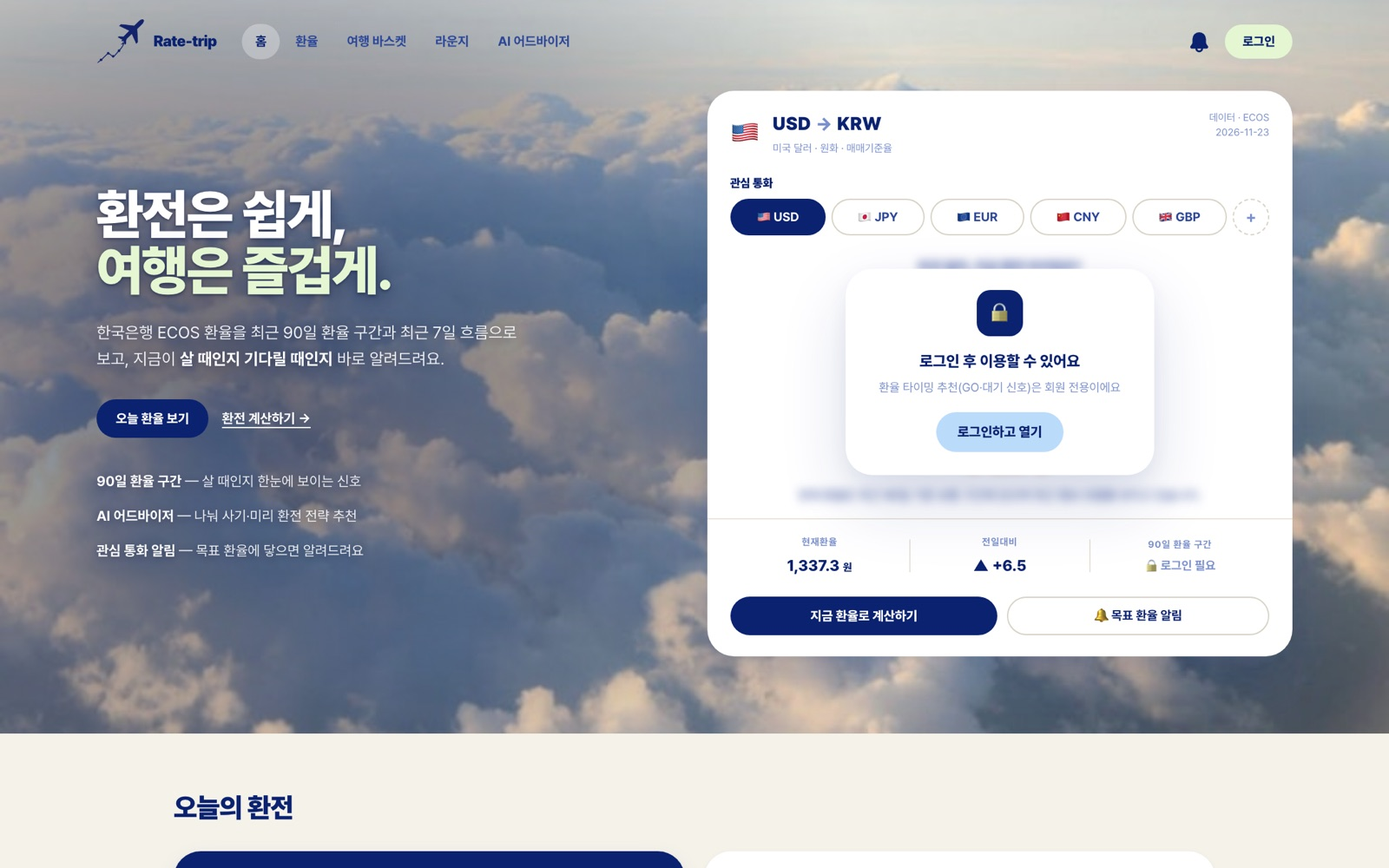
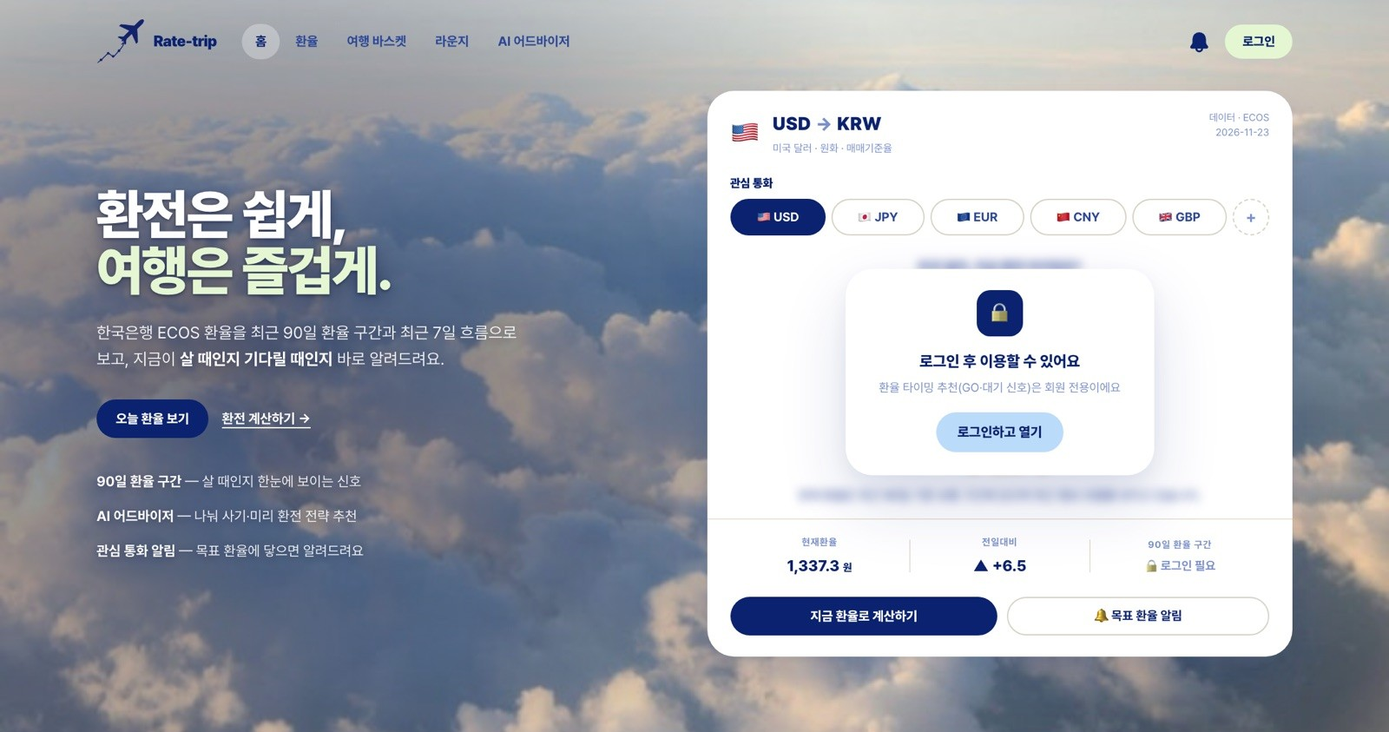
포폴 3차 수정: 트러블슈팅 시각화, 스크롤·레이아웃 개선
- 트러블슈팅 27건에 전/후 흐름도·막대·비율·구간 다이어그램 추가, 문제/원인/해결/결과 2×2 배치
- 프로젝트 창이 열려 있을 때 배경 페이지 스크롤 잠금
- About 사진 축소, 기술 아이콘 툴팁이 사진에 가려지지 않게 수정
- Rate-trip 첫 화면 이미지를 히어로 영역만 남도록 자르기

diff --git a/index.html b/index.html
@@ -16,7 +16,10 @@
     --max:1320px; --pad:clamp(20px,4vw,56px);
   }
   *{box-sizing:border-box;margin:0;padding:0}
-  html{scroll-behavior:smooth;scroll-padding-top:64px}
+  html{scroll-behavior:smooth;scroll-padding-top:64px;scrollbar-gutter:stable}
+  /* 프로젝트 창이 열려 있으면 뒤 배경은 스크롤 안 됨 */
+  html.modal-open,html.modal-open body{overflow:hidden}
+  dialog.finder,.fmain,.fside{overscroll-behavior:contain}
   body{
     font-family:"Poppins","Pretendard Variable",Pretendard,-apple-system,BlinkMacSystemFont,"Apple SD Gothic Neo",sans-serif;
     background:#fff;color:var(--ink);font-size:15px;line-height:1.65;letter-spacing:-0.01em;
@@ -64,7 +67,7 @@
   /* ---------- about ---------- */
   .about{display:grid;grid-template-columns:minmax(0,520px) minmax(0,1fr);gap:clamp(40px,6vw,96px);padding:clamp(48px,7vw,96px) 0 40px;align-items:start}
   .photo-col{display:flex;flex-direction:column;align-items:center;gap:28px;position:sticky;top:90px}
-  .photo{position:relative;width:min(400px,80vw);aspect-ratio:590/900}
+  .photo{position:relative;width:min(340px,70vw);aspect-ratio:590/900}
   .photo::before{content:"";position:absolute;left:8%;right:8%;bottom:2%;top:24%;background:radial-gradient(closest-side,#E8F2FF,transparent);z-index:0}
   .photo img{position:relative;z-index:1;width:100%;height:100%;object-fit:contain;filter:drop-shadow(0 30px 40px rgba(20,40,80,.16))}
   .sticker{position:absolute;z-index:2;animation:bob 4.5s ease-in-out infinite}
@@ -73,7 +76,7 @@
   .sticker.s3{left:2%;top:6%;width:40px;animation:spin 10s linear infinite}
   @keyframes bob{0%,100%{transform:translateY(0)}50%{transform:translateY(-10px)}}
   @keyframes spin{to{transform:rotate(360deg)}}
-  .dock{display:flex;gap:7px;padding:10px 14px;background:#EEF0F3;border-radius:24px;align-items:flex-end;flex-wrap:wrap;justify-content:center;max-width:100%}
+  .dock{position:relative;z-index:3;display:flex;gap:7px;padding:10px 14px;background:#EEF0F3;border-radius:24px;align-items:flex-end;flex-wrap:wrap;justify-content:center;max-width:100%}
   .dock-item{position:relative;width:40px;height:40px;border-radius:11px;display:flex;align-items:center;justify-content:center;font-size:12.5px;font-weight:600;letter-spacing:-0.02em;box-shadow:0 6px 14px -8px rgba(0,0,0,.45);transition:transform .2s cubic-bezier(.2,.7,.2,1);cursor:default}
   .dock-item:hover{transform:translateY(-10px) scale(1.22)}
   .dock-item .tip{position:absolute;bottom:52px;left:50%;transform:translateX(-50%);white-space:nowrap;background:var(--ink);color:#fff;font-size:11px;font-weight:500;padding:4px 8px;border-radius:6px;opacity:0;pointer-events:none;transition:opacity .15s}
@@ -182,11 +185,60 @@
   .ts + .ts{margin-top:12px}
   .ts-t{font-size:15px;font-weight:600;letter-spacing:-0.02em;margin-bottom:12px}
   .ts-t span{font-size:11px;color:var(--ink-3);font-weight:500;margin-right:10px}
-  .ts dl{display:grid;gap:8px}
-  .ts dl > div{display:grid;grid-template-columns:44px 1fr;gap:12px}
-  .ts dt{font-size:12.5px;color:var(--ink-3);padding-top:2px}
-  .ts dd{font-size:14.5px;color:#2E2E2E;line-height:1.65}
+  .ts dl{display:grid;grid-template-columns:1fr 1fr;gap:14px 28px}
+  .ts dt{font-size:12.5px;font-weight:600;color:var(--ink-2);margin-bottom:3px}
+  .ts dl > div:nth-child(n+3) dt{color:var(--blue)}
+  .ts dd{font-size:14px;color:#2E2E2E;line-height:1.65}
   .ts dl > div:last-child dd{color:var(--ink);font-weight:500}
+
+  /* 트러블슈팅 다이어그램 */
+  .tv{margin-top:18px;background:var(--tile);border-radius:10px;padding:clamp(10px,2vw,22px)}
+  .tv-in{background:#fff;border-radius:6px;padding:18px clamp(14px,2.4vw,26px) 20px}
+  .tv-h{font-size:15px;font-weight:700;letter-spacing:-0.02em;line-height:1.45}
+  .tv-lg{display:flex;flex-wrap:wrap;gap:4px 16px;margin:6px 0 2px;font-size:12px;color:var(--ink-2)}
+  .tv-lg i{display:inline-block;width:11px;height:11px;border-radius:2px;margin-right:5px;vertical-align:-1px}
+  .tv-lg .k-bad{background:#FDECEC;border:1.5px solid #E5484D}
+  .tv-lg .k-hi{background:var(--blue)}
+  .tv-lg .k-pre{background:#C9CED6}
+  .tv-blk{padding:16px 0 0}
+  .tv-blk + .tv-blk{margin-top:16px;border-top:1px solid var(--line)}
+  .tv-cap{font-size:13.5px;font-weight:700;margin-bottom:10px}
+  .tv-flow{display:flex;align-items:center;flex-wrap:wrap;gap:8px 6px}
+  .tv-step{background:#fff;border:1px solid #CDD3DC;border-radius:6px;padding:7px 11px;font-size:12.5px;line-height:1.45;max-width:230px}
+  .tv-step.bad{background:#FDECEC;border:1.5px solid #E5484D;color:#A51D22;font-weight:600}
+  .tv-step.bad::before{content:"✕ ";font-weight:700}
+  .tv-step.hi{background:var(--blue);border-color:var(--blue);color:#fff;font-weight:600}
+  .tv-par{display:flex;flex-direction:column;gap:6px}
+  .tv-arr{color:#9AA3AF;font-size:13px}
+  .tv-note{margin-top:9px;font-size:12.5px;color:var(--ink-2)}
+  .tv-bars{display:grid;gap:14px}
+  .tv-bar-l{font-size:12.5px;font-weight:600;margin-bottom:5px}
+  .tv-bar{display:grid;grid-template-columns:42px 1fr;align-items:center;gap:8px;font-size:11.5px;color:var(--ink-3)}
+  .tv-bar + .tv-bar{margin-top:4px}
+  .tv-bar b{display:block;height:20px;border-radius:4px;background:#C9CED6;position:relative;min-width:4px}
+  .tv-bar.aft b{background:var(--blue)}
+  .tv-bar em{position:absolute;left:calc(100% + 8px);top:50%;transform:translateY(-50%);white-space:nowrap;font-style:normal;font-size:12px;font-weight:700;color:var(--ink)}
+  .tv-bar.aft em{color:var(--blue)}
+  .tv-bar .w{padding-right:120px}
+  .tv-share{display:flex;height:34px;border-radius:6px;overflow:hidden;font-size:12px;font-weight:600}
+  .tv-share span{display:flex;align-items:center;justify-content:center;padding:0 8px;white-space:nowrap;overflow:hidden}
+  .tv-gauge{position:relative;margin:4px 0 30px}
+  .tv-gauge .track{display:flex;height:16px;border-radius:999px;overflow:hidden}
+  .tv-gauge .tick{position:absolute;top:22px;transform:translateX(-50%);font-size:11.5px;color:var(--ink-2);font-variant-numeric:tabular-nums}
+  .tv-zones{display:grid;grid-template-columns:repeat(auto-fit,minmax(150px,1fr));gap:8px}
+  .tv-zone{border-radius:6px;padding:8px 10px;font-size:12px;line-height:1.45;border:1px solid var(--line)}
+  .tv-zone b{display:block;font-size:12.5px;margin-bottom:2px}
+  .tv-kpi{display:flex;flex-wrap:wrap;gap:8px;margin-top:14px}
+  .tv-kpi span{font-size:12.5px;background:var(--blue-soft);color:#1D4FB0;border-radius:999px;padding:5px 12px}
+  .tv-kpi s{color:var(--ink-3)}
+  .tv-kpi strong{font-weight:700}
+  @media (max-width:640px){
+    .ts dl{grid-template-columns:1fr}
+    .tv-flow{flex-direction:column;align-items:stretch}
+    .tv-step{max-width:none}
+    .tv-arr{transform:rotate(90deg);align-self:center}
+    .tv-bar .w{padding-right:90px}
+  }
   .lnk{list-style:none;display:grid;gap:8px}
   .lnk a{display:inline-flex;gap:10px;font-size:15px;font-weight:500;border-bottom:1px solid var(--ink);padding-bottom:2px}
   .lnk a span{color:var(--ink-3);font-weight:400}
@@ -787,6 +839,187 @@ const PROJECTS = [
   }
 ];
 
+/* =========================================================
+   트러블슈팅 다이어그램 — 프로젝트 id별로 trouble 순서와 같게.
+   blocks 한 칸 = 그림 한 줄.
+     { cap, steps:[...], note }  흐름. '!' 로 시작 = 문제 지점(빨강), '+' = 바꾼 부분(파랑), 배열 = 나란히
+     { cap, bars:[{ l, v:[전,후], t:[표시 글자], n:[이름] }] }  막대 비교
+     { cap, share:[[글자, %, 배경, 글자색]] }  비율 막대
+     { cap, gauge:[[시작, 끝, 이름, 설명, 색]] }  0~100 구간
+     kpi:[[항목, 전, 후]]  어느 칸에나 붙는 수치 요약
+   ========================================================= */
+const TS_VIZ = {
+  dongle:[
+    { title:'안 보이는 곳은 건너뛰고 먼 곳은 단순하게 그려, 프레임 부담을 절반 이하로',
+      blocks:[
+        { cap:'전: 섬 전체를 매 프레임 같은 정밀도로', steps:['큰 합본 메시 하나','!카메라 밖 나무·꽃·강둑까지 그림','!먼 식물도 가까운 것과 같은 정밀도'] },
+        { cap:'후: 보이는 구역만, 거리에 맞는 정밀도로', steps:['+32칸 구역으로 나눠 카메라 컬링','+먼 구역 나무·덤불·꽃은 LOD','+해 그림자는 2프레임에 한 번','인스턴싱용 재질 분리'] },
+        { cap:'측정 결과 (Intel Iris Xe)', bars:[
+          { l:'시작 위치 · GPU 시간', v:[25,12], t:['25ms','12ms'] },
+          { l:'시작 위치 · 프레임당 삼각형', v:[599,250], t:['599만 개','250만 개'] },
+          { l:'타이틀 화면 · GPU 시간', v:[47,15], t:['47ms','15ms'] },
+          { l:'타이틀 화면 · 프레임당 삼각형', v:[1686,325], t:['1,686만 개','325만 개'] },
+        ]},
+      ]},
+    { title:'첫 등장 프레임에 몰리던 GPU 작업을 로딩 화면으로 옮겨 순간 멈춤 제거',
+      blocks:[
+        { cap:'전: compileAsync로 화면 셰이더만 미리 준비', steps:['로딩 화면 · 화면 셰이더만 컴파일','게임 시작','!새 장소 첫 등장 · 지오메트리 업로드 + 그림자 셰이더 컴파일'], note:'처음 보는 장소에서 391ms, 511ms씩 화면이 멈춤' },
+        { cap:'후: 로딩 중에 섬 전체를 한 번 미리 그림', steps:['+로딩 화면 · 섬 전체를 1×1 크기로 그림자와 함께 그림','게임 시작','새 장소 첫 등장 · 이미 GPU에 있음'],
+          kpi:[['순간이동 11곳 · 게임 중 업로드·컴파일','발생','0회']] },
+      ]},
+    { title:'고정 높이 하나 대신, 가장 가까운 좌석의 실제 높이로 앉히기',
+      blocks:[
+        { cap:'전', steps:['다른 주민의 앉은 자세 수신','소파·의자 기준 높이 하나로 그림','!방석 위에서는 공중에 떠 보임'] },
+        { cap:'후', steps:['다른 주민의 앉은 자세 수신','+전달받은 위치에서 가장 가까운 좌석 찾기','+그 좌석의 실제 높이로 그림'], note:'좌석을 알 수 없을 때만 기본 높이 사용 · 높이 0.15인 방석에서도 정확히 앉음' },
+      ]},
+  ],
+  malo:[
+    { title:'같은 종목 요청을 줄 세우고, 확정된 과거 봉만 캐시에 남겨 500 에러 제거',
+      blocks:[
+        { cap:'전: 동시에 들어온 두 요청이 같은 캐시 행을 지움', steps:['같은 종목 요청 A · B 동시 도착','!장중 오늘 봉 종가 변화 → "수정주가 소급"으로 오인','A · B가 같은 캐시 행 삭제','!뒤쪽 삭제 0행 → 500'] },
+        { cap:'후: 종목별 락 안에서 한 요청씩', steps:['+종목별 락으로 A → B 줄 세움','+확정된 과거 봉만 캐시에 대조·저장','오늘 봉은 응답 끝에만 붙임','B는 A가 채운 캐시 사용'],
+          kpi:[['봉마다 조회','200회','구간 조회 1회'],['캐시 삭제','일괄 삭제 쿼리']] },
+      ]},
+    { title:'전략 등록 시각을 기준으로, 등록 뒤 마감된 거래일만 평가',
+      blocks:[
+        { cap:'전: 등록 시점을 모른 채 지난 거래일을 평가', steps:['9/27(일, 추석 연휴) 전략 등록','앱 기동 · 따라잡기','!등록 전인 9/23 기준으로 평가','!밀린 날 확인 요청이 계속 반복'] },
+        { cap:'후: 등록 뒤 장이 마감된 거래일부터', steps:['+전략에 등록 시각 기록','+등록 뒤 마감된 거래일만 평가','그날 평가 기록이 있으면 다시 안 돌림','+밀린 날 확인 시 지난 거래일 모두 건너뜀'], note:'국내 15:40 이후 등록이면 그날도 제외' },
+      ]},
+    { title:'제출 중에는 프로필 행을 잠가 현재 닉네임으로만 기록',
+      blocks:[
+        { cap:'전: 결과 제출과 닉네임 변경이 서로를 기다리지 않음', steps:['결과 제출 시작','그 사이 닉네임 변경','!옛 이름 행이 순위표에 남음'] },
+        { cap:'후: 제출 트랜잭션 안에서 프로필 행 잠금', steps:['결과 제출 시작','+프로필 행 잠금','+닉네임 다시 읽기','현재 이름으로 기록'],
+          kpi:[['정규화 후 길이 초과 닉네임','500','400 거절'],['랭킹 서버 호출 타임아웃','연결 3초 · 응답 10초'],['요청 제한(429)','Retry-After로 "N분 뒤" 안내']] },
+      ]},
+  ],
+  qubi:[
+    { title:'함수 전체 대신 한 줄만 바꾸게 해, 출력이 함수 크기와 상관없이 짧아짐',
+      blocks:[
+        { cap:'전: AI가 함수 전체를 다시 씀', steps:['함수 전체 재작성 (render 1,607토큰)','!컨텍스트 2,048토큰 초과','!중간에 끊긴 코드를 그대로 적용'] },
+        { cap:'후: 바꿀 한 줄만 REPLACE / WITH', steps:['+한 줄 교체 요청','원본에 정확히 한 번 있을 때만 교체','+출력 한도 = 컨텍스트 − 입력 − 여유','+괄호·문자열·정규식 열림 검사','게임에 적용'] },
+        { cap:'출력 토큰', bars:[{ l:'render 함수 수정 1회', v:[1607,40], t:['1,607토큰','40토큰 안쪽'] }],
+          kpi:[['대상 함수 66개','전체 재작성','64개 한 줄 교체 · 2개 사전 안내'],['컨텍스트 초과 요청','발생','0건'],['끊긴 코드 6종','적용됨','모두 차단']] },
+      ]},
+    { title:'파일을 메모리에 올리지 않고 이름만 바꿔 대용량 모델 저장',
+      blocks:[
+        { cap:'전: 최종 이름으로 옮길 때 통째로 복사', steps:['7B 모델 약 4.7GB 다운로드 (수십 분)','!파일 전체를 ArrayBuffer로 읽음','!단일 ArrayBuffer 한계(약 4GB) 초과 → 실패','0바이트 임시 파일만 남음'] },
+        { cap:'후: 복사 없이 이동', steps:['약 4.7GB 다운로드','+move()로 이름만 변경','+미지원 환경은 Blob을 넘겨 스트리밍','+실패 시 임시 파일 삭제'] },
+      ]},
+    { title:'게임은 전용 CSP를 가진 샌드박스 페이지에서 따로 실행',
+      blocks:[
+        { cap:'전: 확장 페이지 안의 srcdoc iframe', steps:["확장 페이지 (CSP script-src 'self')",'srcdoc iframe이 CSP 상속','!게임 인라인 스크립트 차단'] },
+        { cap:'후: manifest에 샌드박스 페이지 선언', steps:['확장 페이지','+샌드박스 페이지 (전용 CSP)','+준비 신호 → postMessage로 게임 HTML 전달','게임 실행 · 확장 권한과 분리'] },
+      ]},
+  ],
+  lidar:[
+    { title:'바꿀 수 없는 금리·한도 대신, AI가 개입할 수 있는 인앱 단절로 타깃 변경',
+      blocks:[
+        { cap:'2026년 1분기 민원 구성 (총 25건)', share:[['여수신 · 금리·한도 불만 80%',80,'#C9CED6','#2E2E2E'],['그 외 20%',20,'#EEF0F3','#4D4D4D']],
+          note:'총 민원은 2024년 1분기 57건 → 2026년 1분기 25건 (56.1% 감소)' },
+        { cap:'타깃 재설정', steps:['!금리·한도 불만 · 기술로 바꿀 수 없음',['+공시상 3건뿐인 앱 오류 민원','+공시에 안 잡히는 조용한 이탈 (Silent Churn)'],'인앱 프로세스 단절을 타깃으로'] },
+      ]},
+    { title:'문장을 만들지 않고 판정만 하는 모델로 정보 왜곡 위험 차단',
+      blocks:[
+        { cap:'배제한 안: 생성형 LLM', steps:['고객 상황','LLM이 이율·조건 안내 문장 생성','!할루시네이션 → 불완전판매 리스크'] },
+        { cap:'선택한 안: 비생성형 판정 모델', steps:['정형 수치 + 클릭스트림 시퀀스','+LSTM · XGBoost가 판정만','분노 지수 0~100'], note:'정보 왜곡 위험을 없애고 연산 속도·전산 부담도 줄임' },
+      ]},
+    { title:'필요한 화면에서만 분석하고, 점수 구간에 따라 대응을 나눠 비용·인력 통제',
+      blocks:[
+        { cap:'언제 분석하나', steps:['!모든 화면 · 모든 고객 24시간 분석','+여수신 신청서 화면 진입 시에만 (On-Demand)'] },
+        { cap:'분노 지수 구간별 대응', gauge:[[0,80,'80점 이하','선제 조치 없음','#E3E7ED'],[80,85,'80점 초과','안내 팝업 · 세션 자동 저장','#8DB8F2'],[85,100,'85점 초과','상담원 콜백 배분','#1D6FE0']] },
+      ]},
+  ],
+  ratetrip:[
+    { title:'DB → 캐시 → 대체 API 순으로 받아, 외부 API가 멈춰도 화면 유지',
+      blocks:[
+        { cap:'전: 요청마다 ECOS 직접 호출', steps:['환율 요청','ECOS 직접 호출','!한도 초과 · 무응답','!화면 전체 "Failed to fetch"'] },
+        { cap:'후: 있는 데이터부터 쓰고, 실패하면 차례로 대체', steps:['환율 요청','+DB 저장값 먼저','없는 통화만 ECOS','+실패 시 직전 캐시 (stale)','+그다음 공용 환율 API'],
+          note:'응답 10분 캐시 · 14일 내내 값이 같은 통화는 다시 받음', kpi:[['인증 실패 · 한도 초과','같은 오류','502 · 503 분리']] },
+      ]},
+    { title:'영업일마다 자동 수집하고, 빈 DB는 기동 직후 채워 언제나 최근 환율 표시',
+      blocks:[
+        { cap:'전: 사람이 직접 수집, "오늘" 데이터만 조회', steps:['서버 새로 시작','!DB 비어 있음 · 홈·차트 텅 빔','!주말·공휴일엔 그날 환율 없음'] },
+        { cap:'후: 스케줄러가 수집, 최근 영업일로 조회', steps:['+서버 시작 5초 뒤 DB 비면 최근 영업일 자동 수집','+매 영업일 11:00 APScheduler 수집','수집 직후 목표 환율 알림 검사','주말엔 최근 영업일 환율 표시'],
+          note:'migrate 같은 관리 명령에서는 스케줄러가 뜨지 않게 막음 · loaddata와 runserver만으로 바로 사용' },
+      ]},
+    { title:'실제 환율 통계를 프롬프트에 넣고 역할을 좁혀, 근거 있는 답변으로',
+      blocks:[
+        { cap:'전', steps:['사용자 질문','질문만 모델에 전달','!근거 없는 "지금 사라"'] },
+        { cap:'후', steps:['사용자 질문 + 사용 목적','+백엔드가 최근 30일 현재·평균·최고·최저 계산','+역할: 여행 환전 판단 보조로 한정','답변 + 면책 고지 + 데이터 출처'] },
+      ]},
+  ],
+  hearstory:[
+    { title:'검색된 사료만 근거로 답하는 RAG 구조로 지어낸 역사 차단',
+      blocks:[
+        { cap:'위험: 생성형 AI만 쓸 때', steps:['관람객 질문','AI가 역사 인물을 연기','!사실이 아닌 내용을 그럴듯하게'] },
+        { cap:'설계: RAG', steps:['관람객 질문','+국가유산포털 공공데이터 벡터 검색 (ChromaDB)','+검색된 사료만 근거로 답변','답변 + 출처 · 신뢰도 표시'] },
+      ]},
+    { title:'안내판만 있으면 어느 유산이든 해설 콘텐츠로',
+      blocks:[
+        { cap:'현재', steps:['지방 소규모 유산','!해설 콘텐츠를 만들 여력 부족'], note:'전문 해설 인프라는 수도권 대형 박물관에 몰려 있음' },
+        { cap:'제안', steps:['현장 안내판','+OCR로 인식해 유산 식별','+공공데이터와 연결','해설 생성'] },
+      ]},
+    { title:'읽어야 하는 안내문을, 듣고 대화하는 짧은 해설로',
+      blocks:[
+        { cap:'국내 숏폼 이용률', bars:[{ l:'짧고 쉬운 설명에 익숙해진 관람객', v:[58.1,78.9], t:['58.1%','78.9%'], n:['2023','2025'] }] },
+        { cap:'전', steps:['한자어 · 전문 용어 많은 긴 안내판','!읽지 않고 사진 촬영 위주로 끝남'] },
+        { cap:'후', steps:['안내판 촬영','+AI가 핵심만 짧게 요약','+고른 캐릭터 해설사가 쉬운 말로 설명','선택지 버튼 · 자유 질문으로 이어 묻기'] },
+      ]},
+  ],
+  review:[
+    { title:'문맥을 읽는 KoBERT로 분류하고, LDA 토픽으로 "왜"를 설명',
+      blocks:[
+        { cap:'전: 단어 단위 키워드 매칭', steps:['리뷰 문장','단어 하나하나만 봄','!구어체 · 중의적 표현 오분류'] },
+        { cap:'후: 문맥 분류 + 토픽 근거', steps:['리뷰 문장',['+KoBERT · 양방향 문맥으로 긍정·부정 분류','+LDA · 청결·소음 같은 토픽 추출'],'토픽과 감성을 묶어 불만 항목 설명'] },
+      ]},
+    { title:'비율을 지켜 나누고 소수 클래스에 가중치를 줘 치우침 완화',
+      blocks:[
+        { cap:'전', steps:['부정 리뷰가 압도적인 데이터','그대로 학습','!소수 클래스(긍정)를 무시하는 쪽으로 학습'] },
+        { cap:'후', steps:['+Stratified Sampling · 학습/검증 클래스 비율 유지','+Weighted Cross-Entropy · 소수 클래스 가중치','학습'],
+          kpi:[['Accuracy','0.82'],['부정 리뷰 Recall','높게 유지']] },
+      ]},
+    { title:'리뷰 말투에 맞춘 형태소 분석기와 불용어 사전으로 노이즈 감소',
+      blocks:[
+        { cap:'전', steps:['"핵-" · "개-" · "ㅋㅋ"','일반 형태소 분석기 · 기본 불용어','!뉘앙스 손실 · 분석 노이즈'] },
+        { cap:'후', steps:['"핵-" · "개-" · "ㅋㅋ"','+KIWI (미등록어에 강함)','+강조 접두사·특수 토큰을 살린 커스텀 불용어 사전','"에어컨 소음" · "침구 상태" 같은 불만 항목'] },
+      ]},
+  ],
+  erpmes:[
+    { title:'DB 직접 연결 대신 인터페이스 테이블을 두어 시스템 간 독립성 확보',
+      blocks:[
+        { cap:'대안: DB 직접 연결', steps:['MES','ERP DB에 직접 연결','!한쪽 장애·업데이트가 바로 전파'], note:'단순하고 저렴하지만 ERP 데이터 오염 위험' },
+        { cap:'선택: 인터페이스 테이블', steps:['MES','+System Link (인터페이스 테이블)','+검증 후 전송','ERP'] },
+      ]},
+    { title:'부적합이 나오는 즉시 ERP로 보내 후속 공정을 바로 멈춤',
+      blocks:[
+        { cap:'대안: 배치 전송', steps:['부적합 발생','정해진 시점에 모아서 전송','!즉시 대응 불가'], note:'서버 부담은 적음' },
+        { cap:'선택: 실시간 전송', steps:['부적합 발생','+즉시 ERP 전송',['후속 공정 중단','자재 투입 차단']] },
+      ]},
+    { title:'현장에서 바로 스캔해, 실적이 생긴 시점에 정확한 값으로 입력',
+      blocks:[
+        { cap:'전', steps:['현장에서 메모','사무실 PC로 이동','!나중에 입력 → 지연 · 오입력'] },
+        { cap:'후', steps:['+바코드 PDA로 현장에서 스캔',['+LOT 정보 등록','+원자재 입출고 · 재고 위치 기록'],'LOT 추적 · 재고 위치 파악'] },
+      ]},
+  ],
+  yanolja:[
+    { title:'정적 HTML 대신 실제 브라우저로 스크롤하며, 서버 부담 없게 수집',
+      blocks:[
+        { cap:'전: HTML 요청', steps:['페이지 요청','!JavaScript 비동기 로딩 전 상태','!숙박시설 목록 비어 있음'] },
+        { cap:'후: Selenium 자동화', steps:['robots.txt · 이용약관 확인','+브라우저처럼 스크롤하며 수집','+요청 사이 지연 · 차단 시 멈추고 간격 늘려 재시도','약 200곳 · 필요한 4개 항목만','Excel 저장 → 분석은 재접속 없이'] },
+      ]},
+    { title:'표시용 문자열을 정규표현식으로 일괄 수치화',
+      blocks:[
+        { cap:'전', steps:['콤마 · 단위 · 별점 기호가 섞인 가격·평점','!바로 계산 불가'] },
+        { cap:'후', steps:['+정규표현식으로 일괄 수치화','+가격 결측치는 대체 없이 제거','분석용 데이터셋'], note:'다른 지역 · 플랫폼에도 같은 규칙 재사용 가능' },
+      ]},
+    { title:'컬렉션(.ttc) 대신 단일 TrueType(.ttf) 한글 폰트 지정',
+      blocks:[
+        { cap:'전', steps:['굴림 (.ttc 폰트 컬렉션)','WordCloud','!ValueError: Only supported for TrueType fonts'] },
+        { cap:'후', steps:['+단일 한글 TrueType (.ttf)',['WordCloud','Matplotlib 그래프'],'워드클라우드 포함 시각화 4종 완성'] },
+      ]},
+  ],
+};
+
 /* 폴더 화면 이미지 (img: 첫 화면, detail: 추가 화면) */
 const COVERS = {
   dongle:    { img:'images/dongle-thumb.jpg', video:'videos/dongle-demo.mp4' },
@@ -837,6 +1070,42 @@ $('#desk').insertAdjacentHTML('beforeend', PROJECTS.map((p,i) => {
 $('#finder-side').insertAdjacentHTML('beforeend', PROJECTS.map(p =>
   `<button type="button" data-id="${p.id}">${FOLDER_SVG(16,13)}<span>${esc(label(p))}</span></button>`).join(''));
 
+/* 트러블슈팅 다이어그램 그리기 (데이터: TS_VIZ) */
+function vStep(s){
+  if (Array.isArray(s)) return `<div class="tv-par">${s.map(vStep).join('')}</div>`;
+  const cls = s[0] === '!' ? ' bad' : s[0] === '+' ? ' hi' : '';
+  return `<span class="tv-step${cls}">${esc(cls ? s.slice(1) : s)}</span>`;
+}
+function vBlock(b){
+  let body = '';
+  if (b.steps) body = `<div class="tv-flow">${b.steps.map(vStep).join('<span class="tv-arr" aria-hidden="true">→</span>')}</div>`;
+  else if (b.bars) body = `<div class="tv-bars">${b.bars.map(r => {
+      const m = Math.max(...r.v);
+      return `<div><div class="tv-bar-l">${esc(r.l)}</div>${r.v.map((v,i) =>
+        `<div class="tv-bar${i ? ' aft' : ''}"><span>${esc((r.n || ['전','후'])[i])}</span><div class="w"><b style="width:${Math.max(v/m*100,1)}%"><em>${esc(r.t[i])}</em></b></div></div>`).join('')}</div>`;
+    }).join('')}</div>`;
+  else if (b.share) body = `<div class="tv-share">${b.share.map(([t,pc,bg,fg]) =>
+      `<span style="width:${pc}%;background:${bg};color:${fg}">${esc(t)}</span>`).join('')}</div>`;
+  else if (b.gauge) {
+    const ticks = [...new Set(b.gauge.flatMap(([f,t]) => [f,t]))];
+    body = `<div class="tv-gauge"><div class="track">${b.gauge.map(([f,t,,,c]) => `<span style="width:${t-f}%;background:${c}"></span>`).join('')}</div>
+      ${ticks.map(v => `<span class="tick" style="left:${v}%">${v}</span>`).join('')}</div>
+      <div class="tv-zones">${b.gauge.map(([,,l,d,c]) => `<div class="tv-zone" style="border-left:4px solid ${c}"><b>${esc(l)}</b>${esc(d)}</div>`).join('')}</div>`;
+  }
+  if (b.kpi) body += `<div class="tv-kpi">${b.kpi.map(k => k.length === 3
+      ? `<span>${esc(k[0])} <s>${esc(k[1])}</s> → <strong>${esc(k[2])}</strong></span>`
+      : `<span>${esc(k[0])} <strong>${esc(k[1])}</strong></span>`).join('')}</div>`;
+  return `<div class="tv-blk">${b.cap ? `<div class="tv-cap">${esc(b.cap)}</div>` : ''}${body}${b.note ? `<p class="tv-note">${esc(b.note)}</p>` : ''}</div>`;
+}
+function renderViz(v){
+  if (!v) return '';
+  const all = JSON.stringify(v.blocks);
+  const lg = [all.includes('"!') && '<span><i class="k-bad"></i>문제 지점</span>',
+              all.includes('"+') && '<span><i class="k-hi"></i>바꾼 부분</span>'].filter(Boolean).join('');
+  return `<figure class="tv"><div class="tv-in"><div class="tv-h">${esc(v.title)}</div>${lg ? `<div class="tv-lg">${lg}</div>` : ''}
+    ${v.blocks.map(vBlock).join('')}</div></figure>`;
+}
+
 function renderDetail(p){
   const c = COVERS[p.id] || {};
   const L = Object.assign({ features:'주요 기능', stack:'기술 스택', arch:'아키텍처', trouble:'트러블슈팅' }, p.labels||{});
@@ -855,7 +1124,8 @@ function renderDetail(p){
   const arch = p.arch.map(flow => `<div class="af">${flow.map(node).join('<span class="af-arrow">→</span>')}</div>`).join('');
   const trouble = p.trouble.map((t,i) => `<div class="ts"><div class="ts-t"><span>${pad(i+1)}</span>${esc(t.t)}</div><dl>
       <div><dt>문제</dt><dd>${esc(t.problem)}</dd></div><div><dt>원인</dt><dd>${esc(t.cause)}</dd></div>
-      <div><dt>해결</dt><dd>${esc(t.solve)}</dd></div><div><dt>결과</dt><dd>${esc(t.result)}</dd></div></dl></div>`).join('');
+      <div><dt>해결</dt><dd>${esc(t.solve)}</dd></div><div><dt>결과</dt><dd>${esc(t.result)}</dd></div></dl>
+      ${renderViz((TS_VIZ[p.id]||[])[i])}</div>`).join('');
   const links = (p.links||[]).length
     ? `<ul class="lnk">${p.links.map(([k,u]) => `<li><a href="${u}" target="_blank" rel="noopener">${esc(k)} <span>${esc(u.replace(/^https?:\/\//,''))}</span> ↗</a></li>`).join('')}</ul>` : '';
   let n = 0; const num = () => pad(++n);
@@ -878,12 +1148,15 @@ function openProject(id){
   $('#finder-main').innerHTML = renderDetail(p);
   $('#finder-main').scrollTop = 0;
   document.querySelectorAll('#finder-side button').forEach(b => b.classList.toggle('on', b.dataset.id === id));
-  if(!finder.open) finder.showModal();
+  if(!finder.open){ finder.showModal(); document.documentElement.classList.add('modal-open'); }
 }
 $('#desk').addEventListener('click', e => { const f = e.target.closest('.folder'); if(f) openProject(f.dataset.id); });
 $('#finder-side').addEventListener('click', e => { const b = e.target.closest('button'); if(b) openProject(b.dataset.id); });
 $('#finder-close').addEventListener('click', () => finder.close());
-finder.addEventListener('close', () => finder.querySelectorAll('video').forEach(v => v.pause()));
+finder.addEventListener('close', () => {
+  finder.querySelectorAll('video').forEach(v => v.pause());
+  document.documentElement.classList.remove('modal-open');
+});
 finder.addEventListener('click', e => { if(e.target === finder) finder.close(); });
 
 /* scroll reveal */
